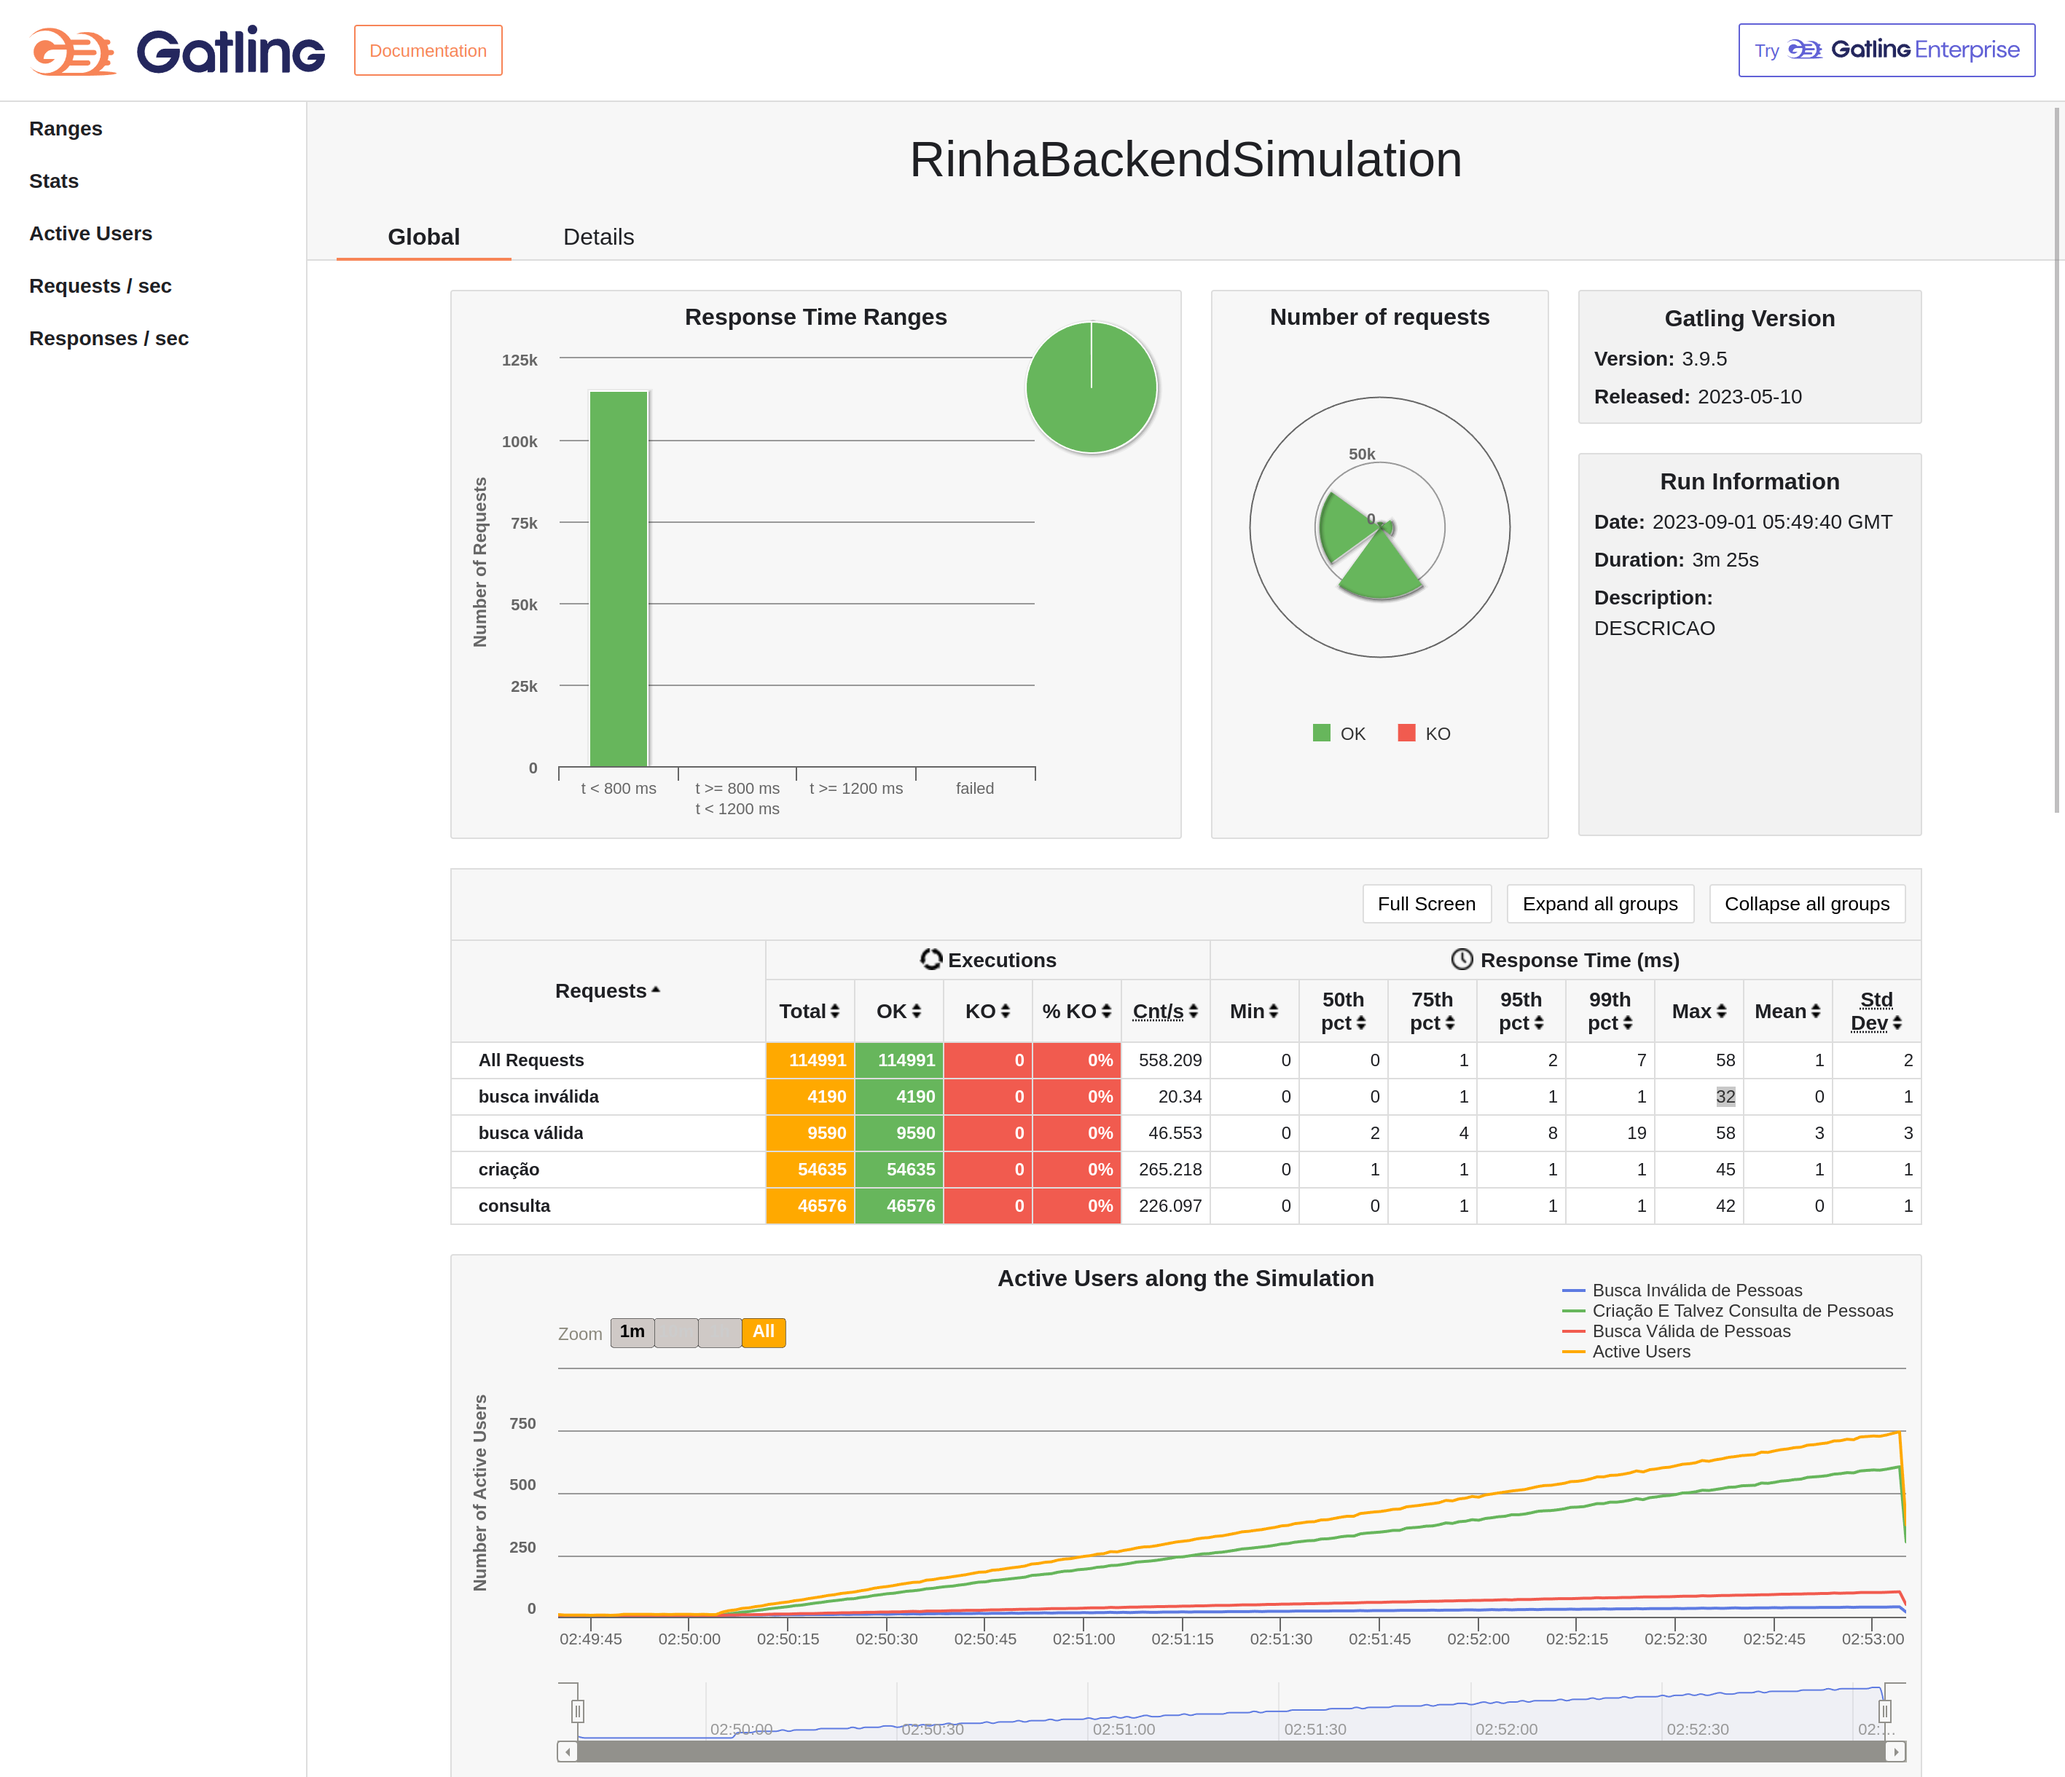
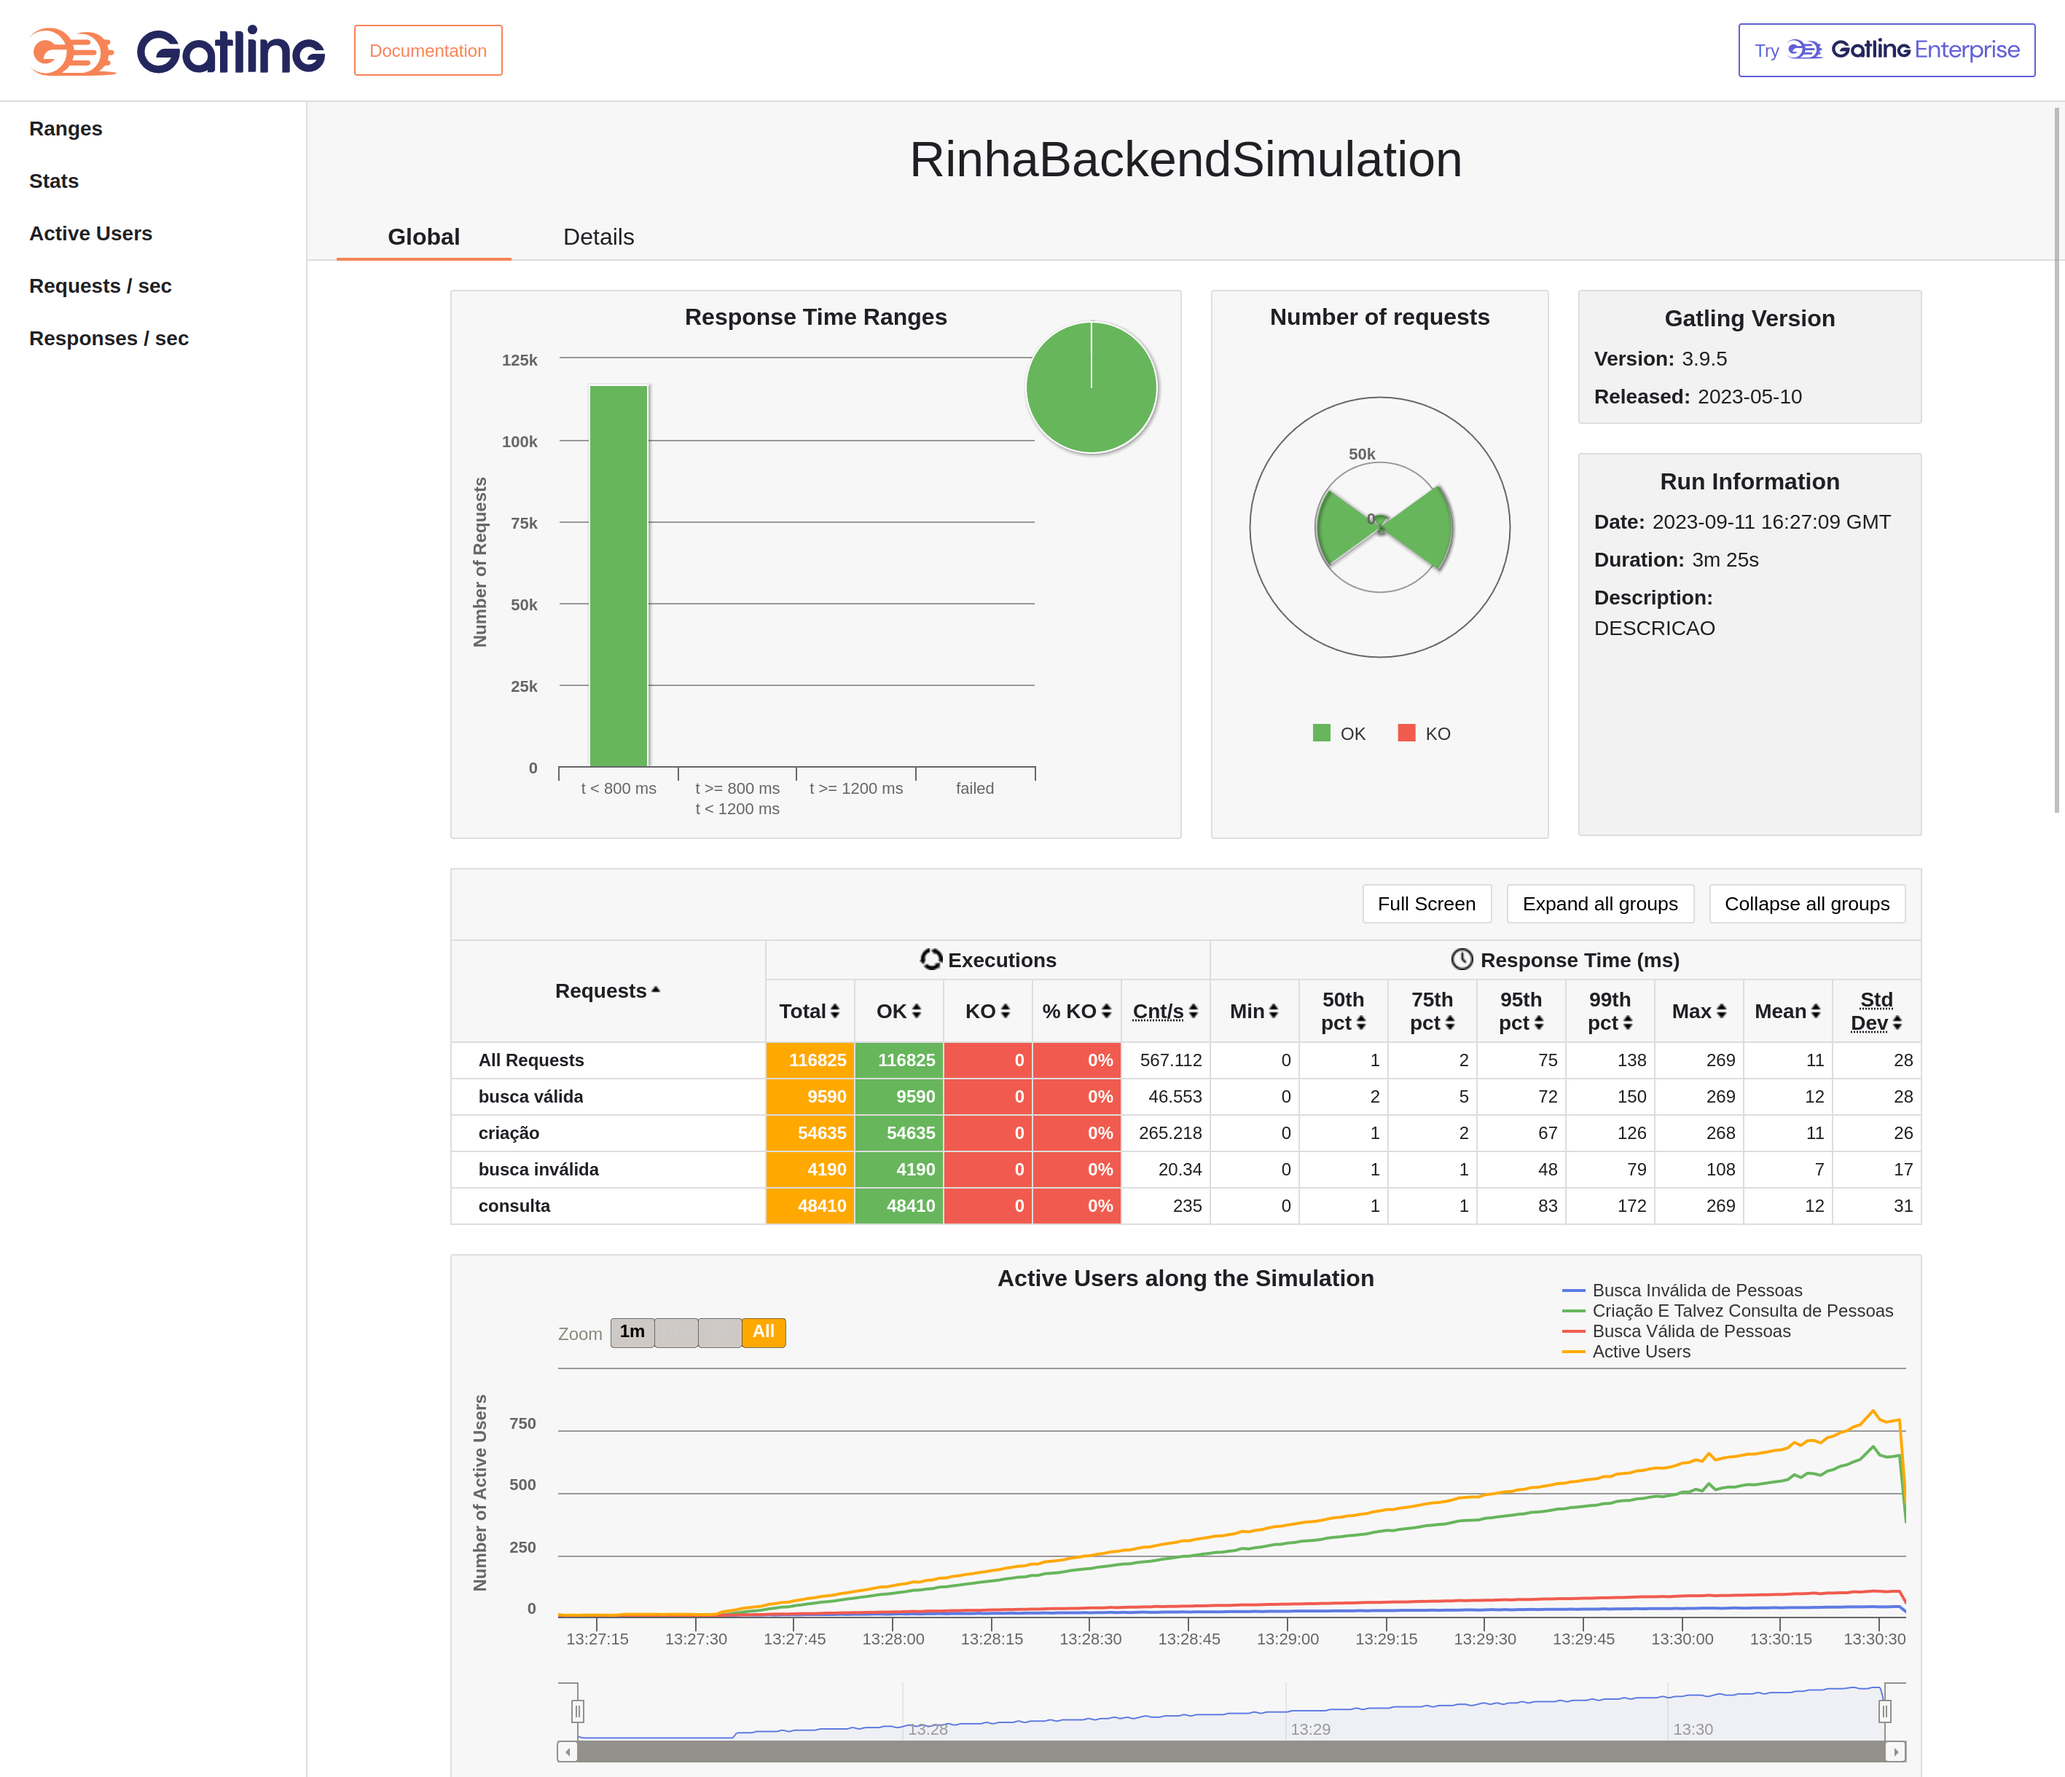
fix and adjustments on README

diff --git a/README.md b/README.md
@@ -87,13 +87,143 @@ BATCH_MAX_WAIT_ON_INSERT_CHANNEL=2
 ```
 
 ### Current local Results
- - Without Tracing and Search Cache without Expiration time: 46576
- ![local results for the implementation with cors and without tracing](./without_tracing_and_ex.png)
- - Without Tracing and Search Cache with Expiration time of 15s: 46576
+ - Without Tracing: 46576
+ bash output:
+ ```bash
+ ================================================================================
+---- Global Information --------------------------------------------------------
+> request count                                     116825 (OK=116825 KO=0     )
+> min response time                                      0 (OK=0      KO=-     )
+> max response time                                     23 (OK=23     KO=-     )
+> mean response time                                     0 (OK=0      KO=-     )
+> std deviation                                          1 (OK=1      KO=-     )
+> response time 50th percentile                          0 (OK=0      KO=-     )
+> response time 75th percentile                          1 (OK=1      KO=-     )
+> response time 95th percentile                          1 (OK=1      KO=-     )
+> response time 99th percentile                          3 (OK=3      KO=-     )
+> mean requests/sec                                567.112 (OK=567.112 KO=-     )
+---- Response Time Distribution ------------------------------------------------
+> t < 800 ms                                        116825 (100%)
+> 800 ms <= t < 1200 ms                                  0 (  0%)
+> t >= 1200 ms                                           0 (  0%)
+> failed                                                 0 (  0%)
+================================================================================
+
+Reports generated in 0s.
+Please open the following file: file:///home/jordao/Documents/rinha-de-backend-2023-q3/stress-test/user-files/results/rinhabackendsimulation-20230911162130743/index.html
+* processing: http://localhost:9999/contagem-pessoas
+*   Trying [::1]:9999...
+* Connected to localhost (::1) port 9999
+> GET /contagem-pessoas HTTP/1.1
+> Host: localhost:9999
+> User-Agent: curl/8.2.1
+> Accept: */*
+> 
+< HTTP/1.1 200 OK
+< Server: nginx/1.25.2
+< Date: Mon, 11 Sep 2023 16:25:02 GMT
+< Content-Type: application/json
+< Content-Length: 5
+< Connection: keep-alive
+< vary: Origin, Access-Control-Request-Method, Access-Control-Request-Headers
+< access-control-allow-credentials: true
+< access-control-expose-headers: content-type
+< 
+* Connection #0 to host localhost left intact
+46576%
+ ```
  ![local results for the implementation with cors and without tracing](./without_tracing.png)
- - With StdOut Tracing and Search Cache with Expiration time of 15s: 46576
+ - With StdOut Tracing: 46576
+ bash output: 
+ ```bash
+ ================================================================================
+---- Global Information --------------------------------------------------------
+> request count                                     116825 (OK=116825 KO=0     )
+> min response time                                      0 (OK=0      KO=-     )
+> max response time                                     16 (OK=16     KO=-     )
+> mean response time                                     1 (OK=1      KO=-     )
+> std deviation                                          1 (OK=1      KO=-     )
+> response time 50th percentile                          1 (OK=1      KO=-     )
+> response time 75th percentile                          1 (OK=1      KO=-     )
+> response time 95th percentile                          1 (OK=1      KO=-     )
+> response time 99th percentile                          3 (OK=3      KO=-     )
+> mean requests/sec                                567.112 (OK=567.112 KO=-     )
+---- Response Time Distribution ------------------------------------------------
+> t < 800 ms                                        116825 (100%)
+> 800 ms <= t < 1200 ms                                  0 (  0%)
+> t >= 1200 ms                                           0 (  0%)
+> failed                                                 0 (  0%)
+================================================================================
+
+Reports generated in 0s.
+Please open the following file: file:///home/jordao/Documents/rinha-de-backend-2023-q3/stress-test/user-files/results/rinhabackendsimulation-20230911160121491/index.html
+* processing: http://localhost:9999/contagem-pessoas
+*   Trying [::1]:9999...
+* Connected to localhost (::1) port 9999
+> GET /contagem-pessoas HTTP/1.1
+> Host: localhost:9999
+> User-Agent: curl/8.2.1
+> Accept: */*
+> 
+< HTTP/1.1 200 OK
+< Server: nginx/1.25.2
+< Date: Mon, 11 Sep 2023 16:04:52 GMT
+< Content-Type: application/json
+< Content-Length: 5
+< Connection: keep-alive
+< access-control-allow-credentials: true
+< access-control-expose-headers: content-type
+< vary: Origin, Access-Control-Request-Method, Access-Control-Request-Headers
+< 
+* Connection #0 to host localhost left intact
+46576% 
+ ```
  ![local results for the implementation with cors and stdout tracing](./with_stdout_tracing.png)
- - With Open Telemetry Tracing and Search Cache with Expiration time of 15s: 46576
+ - With Open Telemetry Tracing: 46576
+ bash output:
+ ```bash
+ ================================================================================
+---- Global Information --------------------------------------------------------
+> request count                                     116825 (OK=116825 KO=0     )
+> min response time                                      0 (OK=0      KO=-     )
+> max response time                                    269 (OK=269    KO=-     )
+> mean response time                                    11 (OK=11     KO=-     )
+> std deviation                                         28 (OK=28     KO=-     )
+> response time 50th percentile                          1 (OK=1      KO=-     )
+> response time 75th percentile                          2 (OK=2      KO=-     )
+> response time 95th percentile                         75 (OK=75     KO=-     )
+> response time 99th percentile                        138 (OK=138    KO=-     )
+> mean requests/sec                                567.112 (OK=567.112 KO=-     )
+---- Response Time Distribution ------------------------------------------------
+> t < 800 ms                                        116825 (100%)
+> 800 ms <= t < 1200 ms                                  0 (  0%)
+> t >= 1200 ms                                           0 (  0%)
+> failed                                                 0 (  0%)
+================================================================================
+
+Reports generated in 0s.
+Please open the following file: file:///home/jordao/Documents/rinha-de-backend-2023-q3/stress-test/user-files/results/rinhabackendsimulation-20230911162707861/index.html
+* processing: http://localhost:9999/contagem-pessoas
+*   Trying [::1]:9999...
+* Connected to localhost (::1) port 9999
+> GET /contagem-pessoas HTTP/1.1
+> Host: localhost:9999
+> User-Agent: curl/8.2.1
+> Accept: */*
+> 
+< HTTP/1.1 200 OK
+< Server: nginx/1.25.2
+< Date: Mon, 11 Sep 2023 16:30:39 GMT
+< Content-Type: application/json
+< Content-Length: 5
+< Connection: keep-alive
+< access-control-allow-credentials: true
+< vary: Origin, Access-Control-Request-Method, Access-Control-Request-Headers
+< access-control-expose-headers: content-type
+< 
+* Connection #0 to host localhost left intact
+46576% 
+ ```
  ![local results for the implementation with cors and open telemetry tracing](./with_otel_tracing.png)
  - Winner from the challenge: 47089 this value is slightly wrong sine the total amount of requests for insertion is 46576
  ![local results for the implementation from viniciusfonseca the winner from the challenge](./challenge_winner.png)
